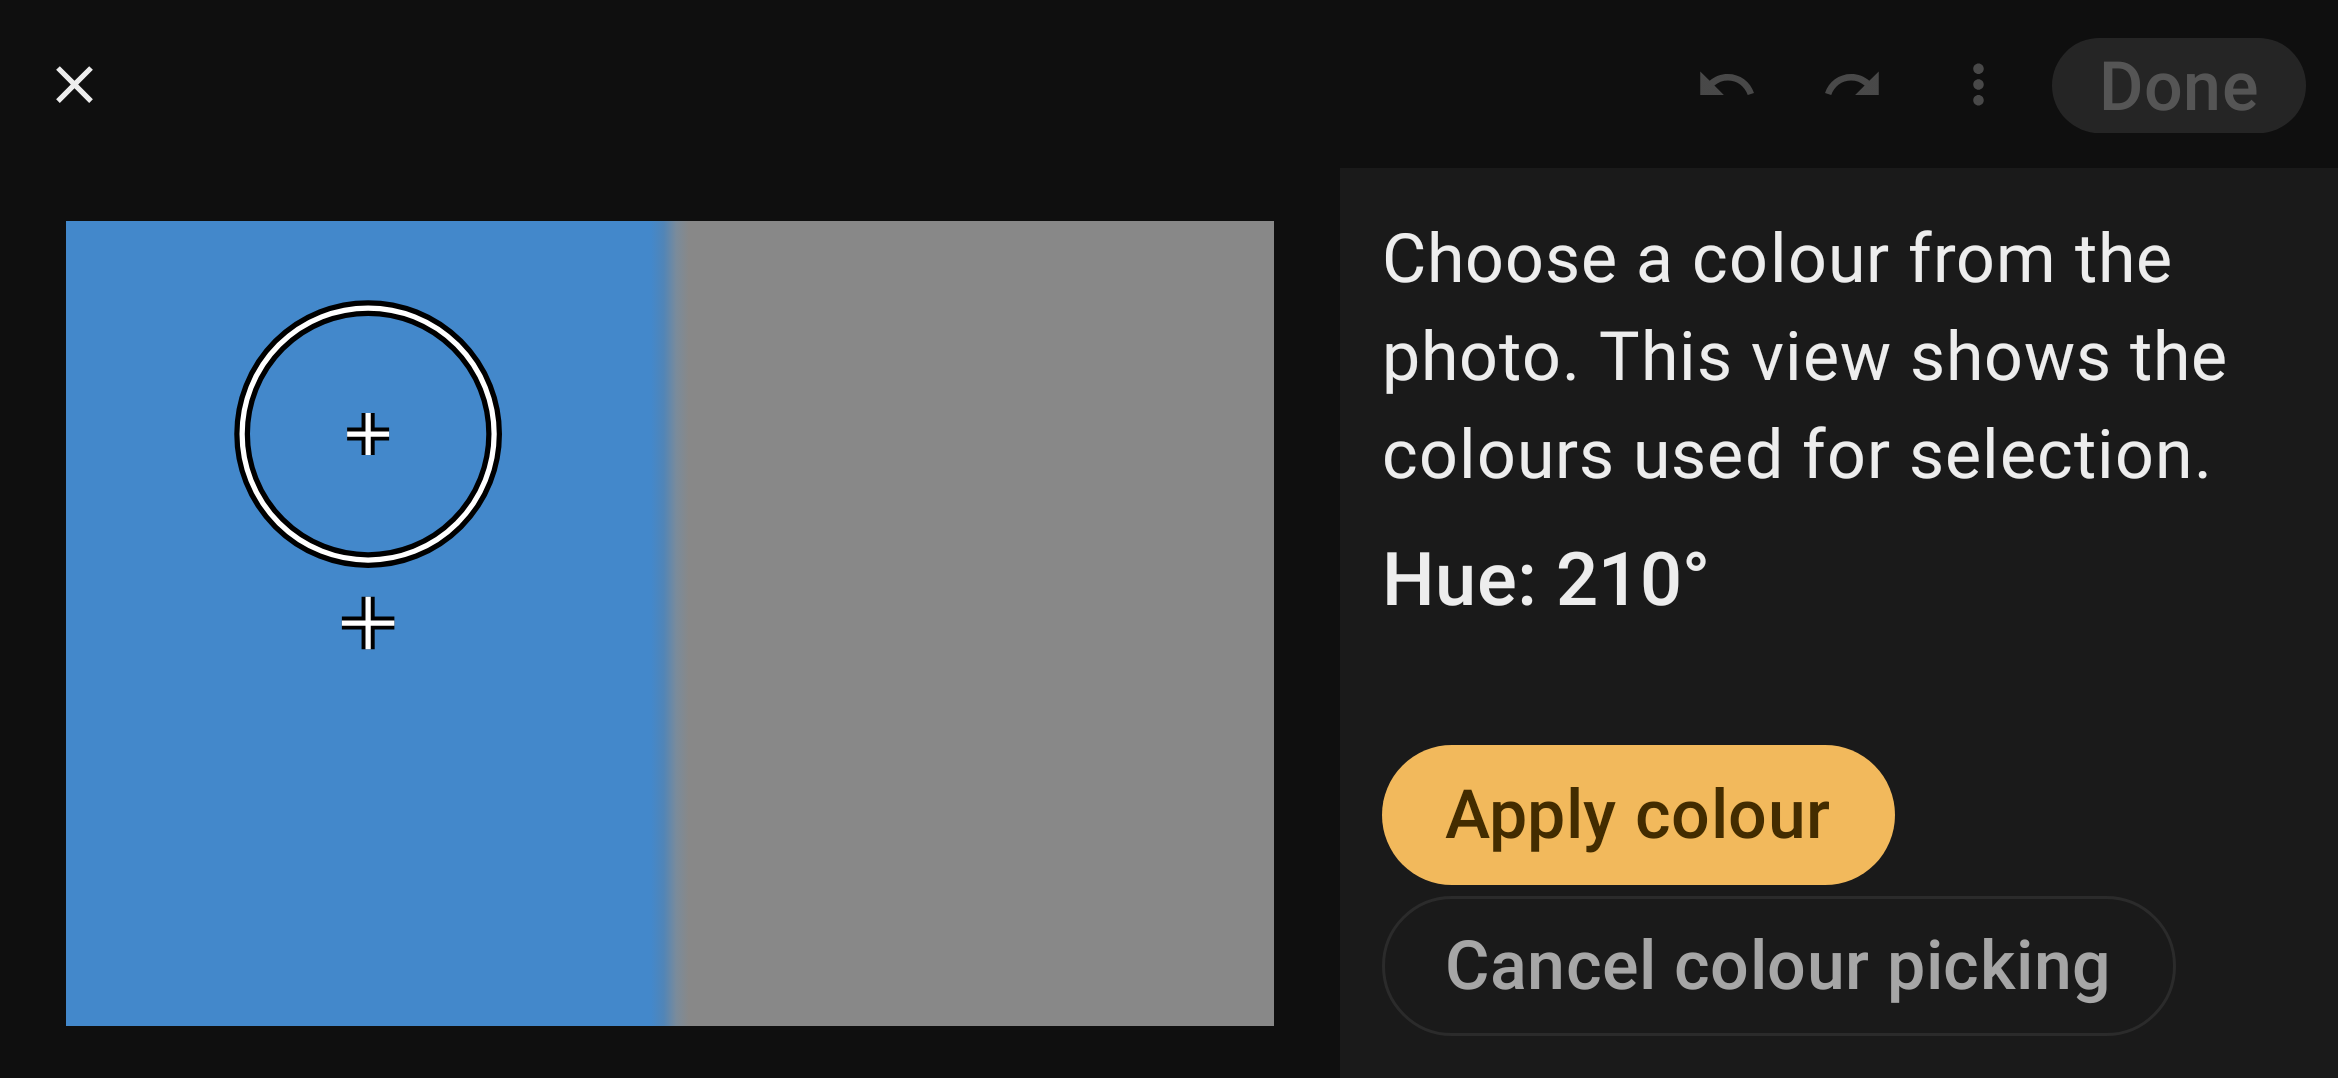
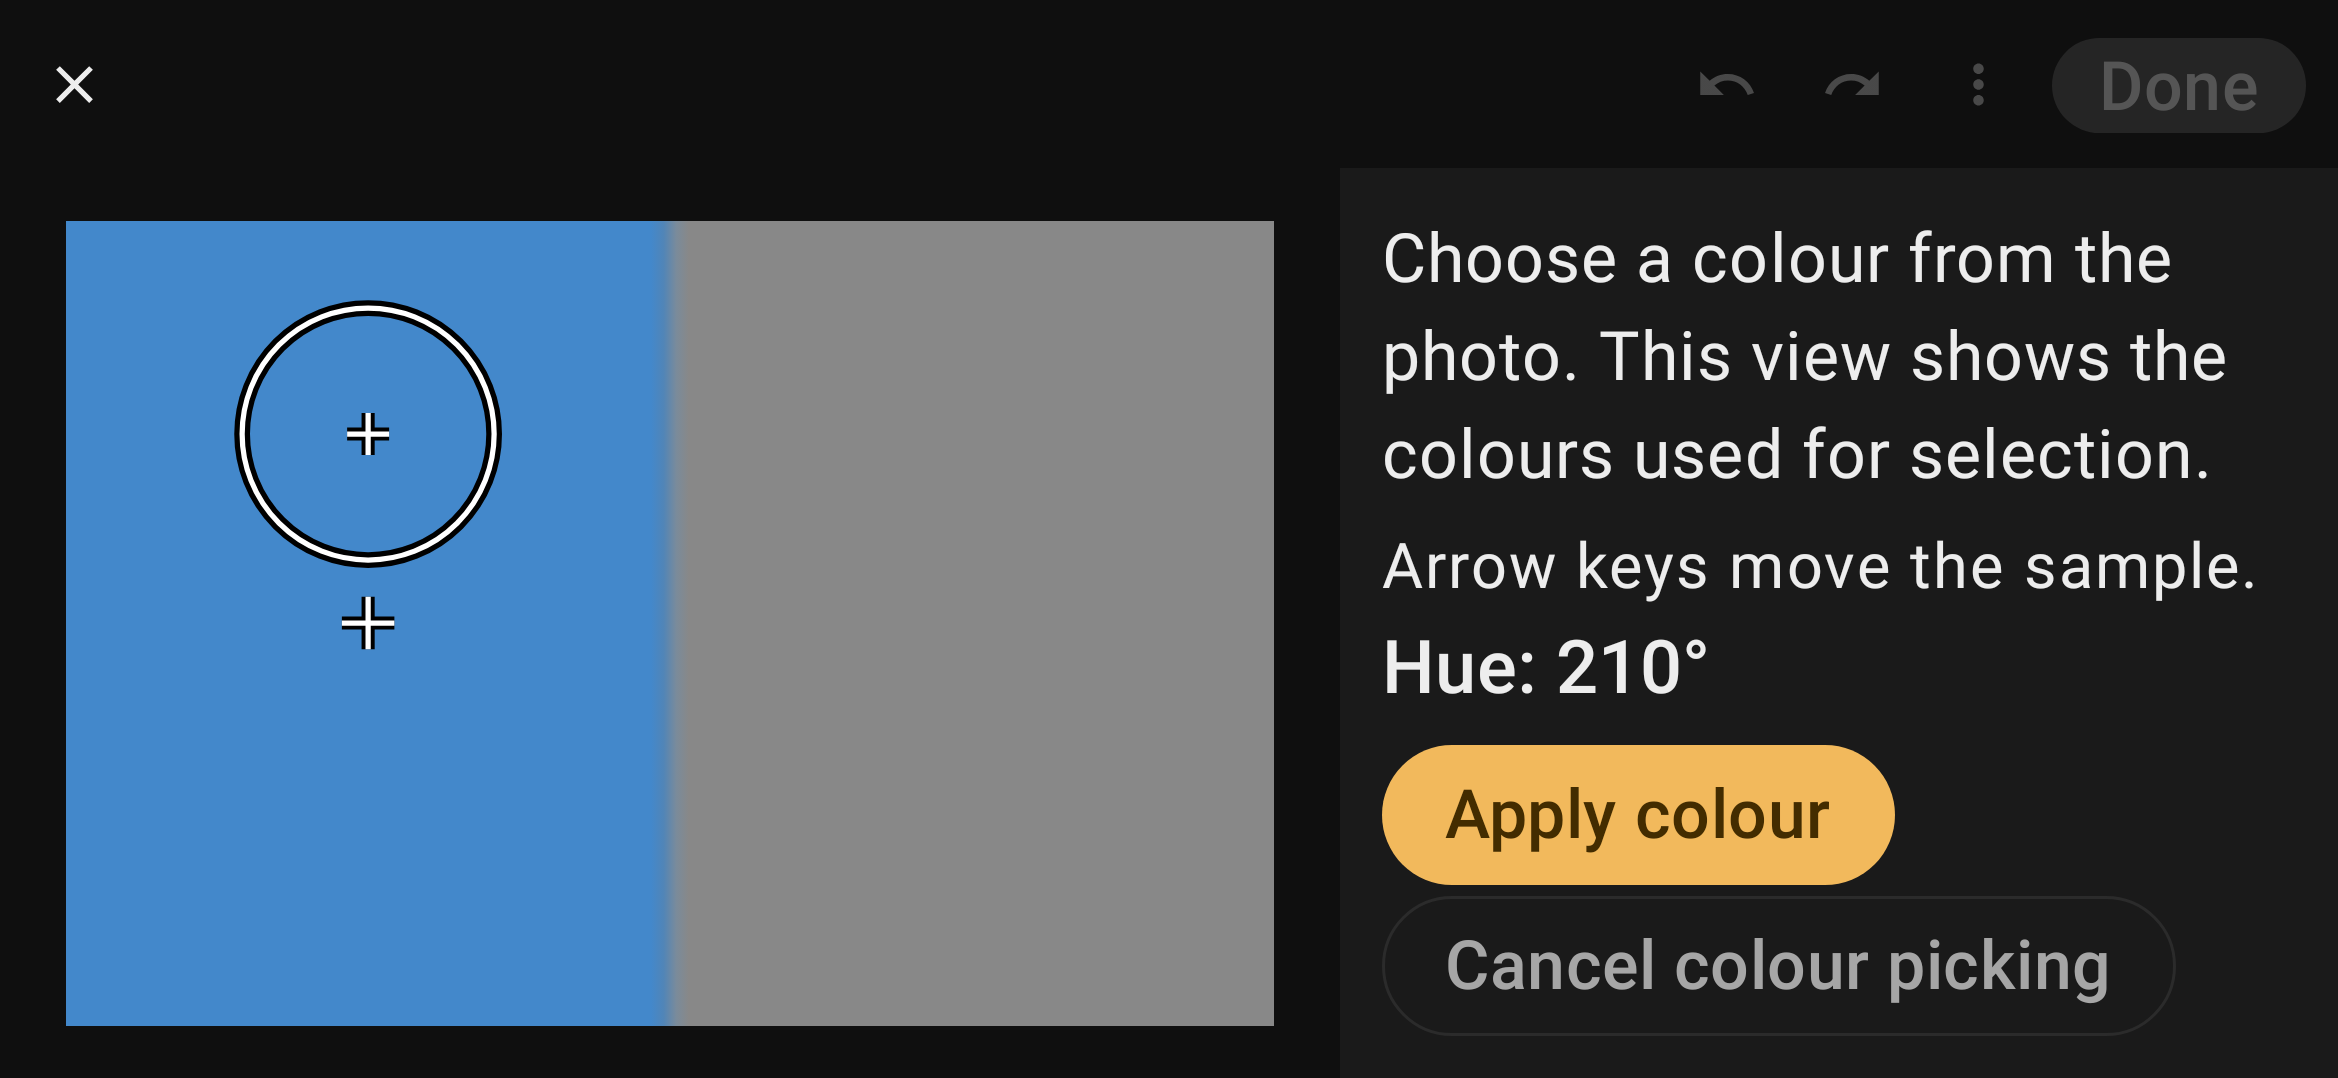
Complete accessible colour picker actions and checked menu state
Agent: Codex

Changed region(s): [[0.5932, 0.4898, 0.9679, 0.6429]]

diff --git a/app/src/main/java/com/byeonggon/latent/ui/editor/ColourPicker.kt b/app/src/main/java/com/byeonggon/latent/ui/editor/ColourPicker.kt
@@ -12,6 +12,9 @@ import androidx.compose.material3.*
 import androidx.compose.runtime.*
 import androidx.compose.ui.Alignment
 import androidx.compose.ui.Modifier
+import androidx.compose.ui.focus.FocusRequester
+import androidx.compose.ui.focus.focusRequester
+import androidx.compose.ui.focus.focusProperties
 import androidx.compose.ui.geometry.Offset
 import androidx.compose.ui.geometry.Rect
 import androidx.compose.ui.geometry.Size
@@ -84,6 +87,8 @@ internal fun ColourPickerFrame(
     modifier: Modifier = Modifier,
 ) {
     val window = rememberWindowLayout()
+    val applyFocus = remember { FocusRequester() }
+    val cancelFocus = remember { FocusRequester() }
     var dragging by remember { mutableStateOf(false) }
     val value = state.hue?.let { stringResource(R.string.colour_hue_value, it.roundToInt()) }
     val invalid = stringResource(R.string.colour_pick_invalid)
@@ -113,8 +118,14 @@ internal fun ColourPickerFrame(
                             CustomAccessibilityAction(up) { move(0f, -0.01f); true }, CustomAccessibilityAction(down) { move(0f, 0.01f); true },
                         )
                     }
-                    .keys { event ->
+                    .keys(onRelease = { event ->
+                        if (event.key == Key.Enter || event.key == Key.DirectionCenter) {
+                            if (!state.preparing && state.hue != null) applyFocus.requestFocus() else cancelFocus.requestFocus()
+                            true
+                        } else false
+                    }) { event ->
                         when (event.key) {
+                            Key.Enter, Key.DirectionCenter -> true
                             Key.DirectionLeft -> { move(-0.01f, 0f); true }
                             Key.DirectionRight -> { move(0.01f, 0f); true }
                             Key.DirectionUp -> { move(0f, -0.01f); true }
@@ -173,12 +184,13 @@ internal fun ColourPickerFrame(
             Column(Modifier.padding(16.dp)) {
                 Column(Modifier.weight(1f, fill = window.sidePanel).verticalScroll(rememberScrollState()), verticalArrangement = Arrangement.spacedBy(8.dp)) {
                     Text(if (state.preparing) preparing else stringResource(R.string.colour_pick_hint), style = MaterialTheme.typography.bodyMedium)
-                    if (value != null) Text(value, style = MaterialTheme.typography.titleMedium)
+                    Text(stringResource(R.string.colour_pick_keys), style = MaterialTheme.typography.bodySmall)
                     if (state.invalid) Text(invalid, color = MaterialTheme.colorScheme.onSurface, style = MaterialTheme.typography.bodyMedium)
                 }
+                if (value != null) Text(value, style = MaterialTheme.typography.titleMedium)
                 FlowRow(horizontalArrangement = Arrangement.spacedBy(8.dp), verticalArrangement = Arrangement.spacedBy(4.dp), modifier = Modifier.padding(top = 8.dp)) {
-                    Button(onClick = onApply, enabled = !state.preparing && state.hue != null, modifier = Modifier.heightIn(min = 48.dp)) { Text(stringResource(R.string.colour_pick_apply)) }
-                    OutlinedButton(onClick = onCancel, modifier = Modifier.heightIn(min = 48.dp)) { Text(stringResource(R.string.colour_pick_cancel)) }
+                    Button(onClick = onApply, enabled = !state.preparing && state.hue != null, modifier = Modifier.focusProperties { canFocus = true }.focusRequester(applyFocus).heightIn(min = 48.dp)) { Text(stringResource(R.string.colour_pick_apply)) }
+                    OutlinedButton(onClick = onCancel, modifier = Modifier.focusProperties { canFocus = true }.focusRequester(cancelFocus).heightIn(min = 48.dp)) { Text(stringResource(R.string.colour_pick_cancel)) }
                 }
             }
         }

diff --git a/app/src/test/java/com/byeonggon/latent/ColourPickerFlowTest.kt b/app/src/test/java/com/byeonggon/latent/ColourPickerFlowTest.kt
@@ -204,6 +204,37 @@ class ColourPickerFlowTest {
         assertFalse(closed)
         assertEquals(before, model.state.value.edit)
     }
+    @Test fun dpadAloneCanSampleReachTheActionsApplyAndCancel() {
+        val model = open()
+        compose.runOnUiThread { compose.activity.setContent { EditorScreen(photoId, onClose = {}, viewModel = model) } }
+        compose.onNodeWithText("Masks").performScrollTo().performClick()
+        compose.onNodeWithText("Pick from photo").performScrollTo().performClick()
+        compose.waitUntil(10_000) { compose.waitForIdle(); model.state.value.colourPicker?.preparing == false }
+        val before = model.state.value.edit
+        compose.onRoot().performKeyInput { pressKey(Key.DirectionLeft) }
+        assertNotNull("direction sampled", model.state.value.colourPicker!!.hue)
+        compose.onRoot().performKeyInput { pressKey(Key.DirectionCenter) }
+        compose.onNodeWithText("Apply colour").assertIsFocused()
+        assertEquals(before, model.state.value.edit) // Moving focus must not also activate Apply on key-up.
+        val point = model.state.value.colourPicker!!.point
+        compose.onRoot().performKeyInput { pressKey(Key.DirectionRight) }
+        compose.onNodeWithText("Cancel colour picking").assertIsFocused()
+        assertEquals(point, model.state.value.colourPicker!!.point)
+        compose.onRoot().performKeyInput { pressKey(Key.DirectionLeft) }
+        compose.onRoot().performKeyInput { pressKey(Key.DirectionCenter) }
+        compose.waitUntil { model.state.value.colourPicker == null }
+        assertNotEquals(before, model.state.value.edit)
+        compose.runOnIdle { model.undo() }
+        assertEquals(before, model.state.value.edit)
+        compose.onNodeWithText("Pick from photo").performScrollTo().performClick()
+        compose.waitUntil(10_000) { compose.waitForIdle(); model.state.value.colourPicker?.preparing == false }
+        compose.onRoot().performKeyInput { pressKey(Key.DirectionCenter) }
+        compose.onNodeWithText("Cancel colour picking").assertIsFocused() // No valid sample means Apply is disabled.
+        compose.onRoot().performKeyInput { pressKey(Key.DirectionCenter) }
+        assertNull(model.state.value.colourPicker)
+        assertEquals(before, model.state.value.edit)
+    }
+
     @Test fun pickingShowsItsInputInsteadOfBeforeAfterComparison() {
         val model = open()
         compose.runOnIdle { model.setComparing(true) }
@@ -238,6 +269,8 @@ class ColourPickerFlowTest {
         compose.onNodeWithText("Masks").performScrollTo().performClick()
         compose.onNodeWithText("Pick from photo").performScrollTo().performClick()
         compose.waitUntil(10_000) { compose.waitForIdle(); model.state.value.colourPicker?.preparing == false }
+        compose.runOnIdle { model.pickColour(0.25f, 0.5f) }
+        compose.onNodeWithText("Hue: 210°").assertIsDisplayed()
         compose.onNodeWithText("Apply colour").assertIsDisplayed()
         compose.onNodeWithText("Cancel colour picking").assertIsDisplayed()
         assertTrue(compose.onNodeWithText("Cancel colour picking").getBoundsInRoot().run { bottom - top >= 48.dp })

diff --git a/app/src/test/java/com/byeonggon/latent/ColourPickerPanelTest.kt b/app/src/test/java/com/byeonggon/latent/ColourPickerPanelTest.kt
@@ -7,6 +7,8 @@ import androidx.compose.material3.MaterialTheme
 import androidx.compose.runtime.*
 import androidx.compose.ui.Modifier
 import androidx.compose.ui.test.*
+import androidx.compose.ui.semantics.SemanticsProperties
+import androidx.compose.ui.state.ToggleableState
 import androidx.compose.ui.test.junit4.v2.createComposeRule
 import com.byeonggon.latent.enhance.LocalEdit
 import com.byeonggon.latent.enhance.Mask
@@ -50,6 +52,17 @@ class ColourPickerPanelTest {
         compose.onNodeWithText("Colour options").performScrollTo().performClick()
         compose.onNodeWithText("Show colour swatches").performClick()
         compose.onNodeWithContentDescription("Red").assertExists()
+    }
+
+    @Test fun swatchMenuAnnouncesBothCheckedStatesOnItsSingleClickTarget() {
+        panel()
+        compose.onNodeWithText("Colour options").performScrollTo().performClick()
+        compose.onNodeWithText("Show colour swatches")
+            .assert(SemanticsMatcher.expectValue(SemanticsProperties.ToggleableState, ToggleableState.On))
+            .performClick()
+        compose.onNodeWithText("Colour options").performClick()
+        compose.onNodeWithText("Show colour swatches")
+            .assert(SemanticsMatcher.expectValue(SemanticsProperties.ToggleableState, ToggleableState.Off))
     }
 
     @Test fun hidingSwatchesDoesNotEnableAnyColourForAWholePhotoColourMask() {

diff --git a/app/src/main/java/com/byeonggon/latent/ui/editor/LocalPanel.kt b/app/src/main/java/com/byeonggon/latent/ui/editor/LocalPanel.kt
@@ -12,6 +12,9 @@ import androidx.compose.foundation.layout.size
 import androidx.compose.foundation.shape.CircleShape
 import androidx.compose.ui.draw.clip
 import androidx.compose.ui.graphics.Color
+import androidx.compose.ui.state.ToggleableState
+import androidx.compose.ui.semantics.toggleableState
+import androidx.compose.ui.semantics.role
 import androidx.compose.ui.semantics.Role
 import androidx.compose.ui.semantics.contentDescription
 import androidx.compose.ui.semantics.semantics
@@ -289,6 +292,10 @@ internal fun LocalPanel(
                 DropdownMenuItem(
                     text = { Text(stringResource(R.string.show_colour_swatches)) },
                     trailingIcon = { Checkbox(checked = showColourSwatches, onCheckedChange = null) },
+                    modifier = Modifier.semantics {
+                        role = Role.Checkbox
+                        toggleableState = if (showColourSwatches) ToggleableState.On else ToggleableState.Off
+                    },
                     onClick = { onShowColourSwatches(!showColourSwatches); colourOptions = false },
                 )
             }

diff --git a/app/src/main/java/com/byeonggon/latent/ui/editor/EditorScreen.kt b/app/src/main/java/com/byeonggon/latent/ui/editor/EditorScreen.kt
@@ -242,10 +242,6 @@ fun EditorScreen(itemId: Long, onClose: () -> Unit, viewModel: EditorViewModel =
             when {
                 state.colourPicker != null -> when (event.key) {
                     Key.Escape -> { viewModel.cancelColourPick(); true }
-                    Key.DirectionLeft -> { viewModel.moveColourCursor(-0.01f, 0f); true }
-                    Key.DirectionRight -> { viewModel.moveColourCursor(0.01f, 0f); true }
-                    Key.DirectionUp -> { viewModel.moveColourCursor(0f, -0.01f); true }
-                    Key.DirectionDown -> { viewModel.moveColourCursor(0f, 0.01f); true }
                     else -> event.isCtrlPressed || event.isAltPressed || (plain && EditorTab.entries.any { it.key == event.key })
                 }
                 event.isCtrlPressed && event.key == Key.Z && !event.isShiftPressed -> viewModel.undo().let { true }

diff --git a/docs/superpowers/reports/2026-10-27-photo-colour-picker.md b/docs/superpowers/reports/2026-10-27-photo-colour-picker.md
@@ -7,9 +7,9 @@ swatches; it does not change the saved edit format, Room schema or backup format
 
 ## Local evidence
 
-- `ANDROID_HOME=/Users/byeonggon/Library/Android/sdk ./gradlew testDebugUnitTest lintDebug lintRelease assembleDebugAndroidTest`: successful. JVM results: 802 tests, zero failures/errors, four skipped; Lint: zero errors (14 existing warnings in each variant).
+- `ANDROID_HOME=/Users/byeonggon/Library/Android/sdk ./gradlew testDebugUnitTest lintDebug lintRelease assembleDebugAndroidTest`: successful. JVM results: 804 tests, zero failures/errors, four skipped; Lint: zero errors (14 existing warnings in each variant).
 - `git diff --exit-code -- app/schemas` and `git diff --check`: clean.
-- New coverage: six sampler/prefix-renderer tests, twelve picker flow tests, three geometry tests and two panel tests.
+- New coverage: six sampler/prefix-renderer tests, thirteen picker flow tests, three geometry tests and three panel tests.
   Existing editor, rendering, settings and backup tests also pass.
 - The flow tests exercise real Room/application/editor state, touch-down and drag, keyboard and accessibility
   actions, one-step Undo, no-op Apply, Cancel/Back, achromatic rejection, stale close/reopen work, EXIF rotation,
@@ -34,6 +34,26 @@ judgement remain on [DEVICE_CHECKS.md](../../DEVICE_CHECKS.md).
 
 Preparation IOException/OOM handling was inspected, not fault-injected; stale publication is tested at the real
 close/reopen boundary. These limits must not be described as a successful on-device check.
+
+## Fresh review and fixes
+
+A fresh read-only reviewer was explicitly dispatched as `gpt-6-astra` (harness selection); it reviewed the full
+`14d3890..e026628` diff, surrounding code and both screenshots. The report self-identified as Codex/GPT-6 with
+exact variant/effort unverified. It found two Important accessibility issues, no Critical or Minor issues:
+
+- Canvas arrows trapped D-pad focus. Enter/centre now transfers focus to Apply (or Cancel without a valid sample),
+  on key-up so it cannot accidentally apply; arrows on buttons navigate normally. A D-pad-only regression failed
+  before the fix and passes after it, including Apply, Undo and no-candidate Cancel.
+- The swatch menu lacked checked semantics. Its single menu action now exposes checkbox role and toggleable state;
+  both state assertions failed before the fix and pass afterward.
+
+The added keyboard instruction also exposed the candidate value falling below the visible scroll area at 200%
+landscape. Its visibility regression failed before moving the value outside the scrolling hint and passes after.
+Final full-suite verification includes these fixes; no second reviewer pass is claimed.
+
+The reviewer set aside unavailable device checks and forced failure injection. Both remain explicit limits above,
+with the risk that hardware-specific alignment/GPU/accessibility or rare recovery faults can remain undetected.
+No Minor findings were deferred.
 
 A fresh whole-branch Codex review is supplemental. A qualified cross-family reviewer must cover the full colour,
 state/cancellation, renderer and UI diff before merge, per AGENTS.md. No merge is authorized by this report.

diff --git a/docs/TODO.md b/docs/TODO.md
@@ -8,6 +8,12 @@ Last updated 2026-10-23.
 
 ## Waiting for the owner
 
+- [ ] **Photo colour picker cross-family review** (2026-10-27, `codex/colour-picker-design`): implementation and local
+      checks are complete. Request Claude Code (Opus 5.5), Gemini 4 Argon or Claude Opus 5.5 via Antigravity to review
+      the full colour/rendering, state/cancellation and UI diff before merge. This session has no qualified
+      cross-family reviewer available; its fresh Codex review is supplemental. S24/GPU runtime checks remain in
+      DEVICE_CHECKS.md. See [verification](superpowers/reports/2026-10-27-photo-colour-picker.md).
+
 - [x] **Verified reinstallation imports, transfer cost** (legacy audit LA-01, HANDOFF; decided 2026-10-22): a camera
       file that only looks like one in the library by name and size is compared whole before it is left out, and the
       person is asked first before the one-time transfer that comparing many of them takes. A file not compared, the
